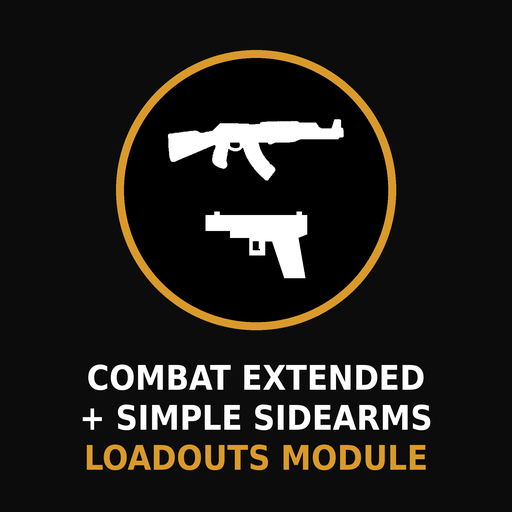
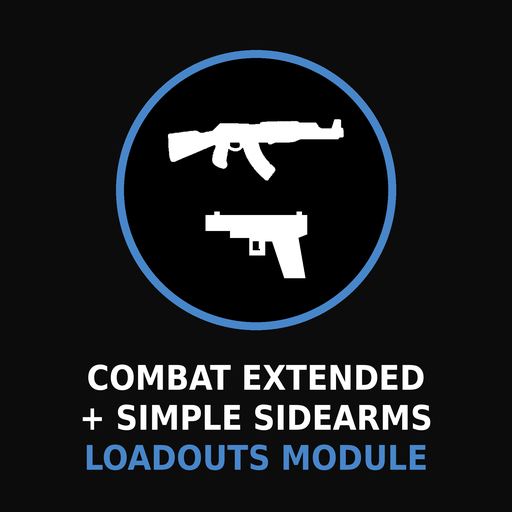
assets: recolored suite badges + EM-Metals badge (palette rebalance); docs: UPMM->MMP
New suite palette (silver / steel-blue / green) badges + About preview; swap the
retired UPMM cross-link for More Mod Patches for Expanded Materials - Metals.

Claude-Session: https://claude.ai/code/session_01P8KGqMWXs1NiRZudGV5mNa

diff --git a/README.md b/README.md
@@ -43,7 +43,7 @@ in these instead.
 <tr><th width="300">Mod</th><th width="540">What it does</th></tr>
 <tr><td width="300"><a href="https://github.com/eebette/Better-Attack-Orders-for-Simple-Sidearms"><img src="Media/Badge_BAO.png" width="300" alt="Better Attack Orders for Simple Sidearms"></a></td><td width="540">Adds sidearm attack orders to the right-click target menu.</td></tr>
 <tr><td width="300"><a href="https://github.com/eebette/Pawns-Optimize-Weapon-Quality"><img src="Media/Badge_POWQ.png" width="300" alt="Pawns Optimize Weapon Quality"></a></td><td width="540">Pawns will upgrade their held guns when a higher-quality copy is available.</td></tr>
-<tr><td width="300"><a href="https://github.com/eebette/Universal-Patch-for-More-Materials"><img src="Media/Badge_UPMM.png" width="300" alt="Universal Patch for More Materials"></a></td><td width="540">Adds materials from <a href="https://steamcommunity.com/sharedfiles/filedetails/?id=3055040889">More Materials</a> to non-vanilla recipes.</td></tr>
+<tr><td width="300"><a href="https://github.com/eebette/More-Mod-Patches-for-Expanded-Materials-Metals"><img src="Media/Badge_MMP.png" width="300" alt="Expanded Materials - Metals: Mod Patches"></a></td><td width="540">Extends <a href="https://steamcommunity.com/sharedfiles/filedetails/?id=3333419387">Expanded Materials - Metals</a> to modded buildings it doesn't cover.</td></tr>
 </table>
 
 ## FAQ
